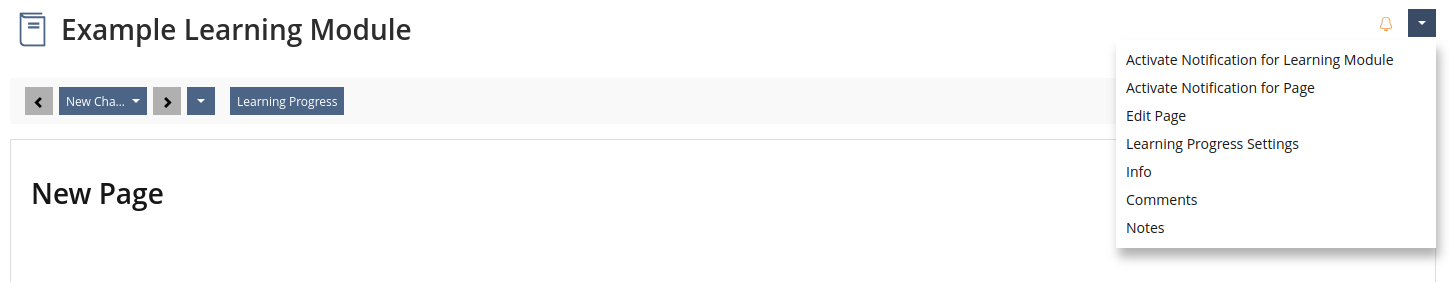
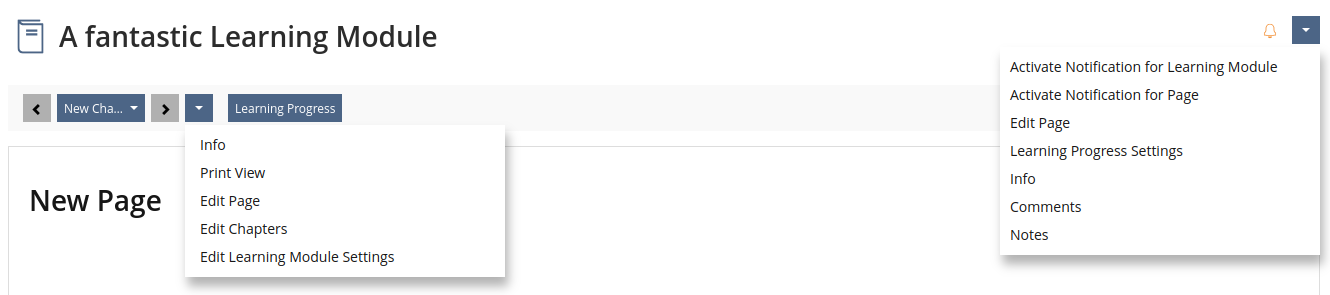
tabs first complete version

diff --git a/ILIAS-development/2025/page-header-tabs-subtabs/page-header-tabs-subtabs-analysis.md b/ILIAS-development/2025/page-header-tabs-subtabs/page-header-tabs-subtabs-analysis.md
@@ -79,6 +79,13 @@ Let's jump ahead and assume we have a test now that is up and running. First res
 
 Each of these branches would have its own structure of Tabs allowing the user to fully focus on the task at hand.
 
+Don Norman describes the main goal of any design in The Design of Everyday things like this: "[M]ake sure that (1) the user can figure out what to do, and (2) the user can tell what is going on."[^Norman-Design-Everyday-Things-design-goals]
+
+This proposal would the User's understanding of the process front and center instead of the system's capabilities.
+
+[^Norman-Design-Everyday-Things-design-goals]: Don Norman. The Design of Everyday Things. 2002 edition. 1988. Basic Books. p. 188 
+
+
 ### Proposal 2
 
 The downside of the first solution is that it is very specific and requires in-depth knowledge of all different type of users, their goals and their workflow.
@@ -89,17 +96,17 @@ Once again this is a snapshot of the current state of this concept and might sti
 
 [ View ] [ Edit & Organize Questions ] [ Test Settings ] [ Assign ] [ Evaluate & Analyze ]
 
-The hierarchy is always based on the words View, Edit (Content), Settings, Assign, Evaluate, because they are associated with different larger tasks that are usually focused on separately. They might have words added to them for clarification and to make them fit better to the exact nature of the object.
+The hierarchy is always based on the words View, Edit (Content), (Object) Settings, Assign, Evaluate, because they are associated with different larger tasks that are usually focused on separately. They might be re-worded per object for clarification and to make them fit better to the exact nature of the object, but the idea of these categories should remain.
 
-We discourage to keep them totally uniform just for the sake of it as the Sub-Tab content will be different for every object anyway.
+We discourage to keep them totally uniform just for the sake of it as the Sub-Tab content within will be different for every object anyway.
 
 The goal is to give a user all tools they need for a current step in the workflow so that they generally do not need to leave a Tab until they move on to another step.
 
 ### Proposal 3
 
-There are also many smaller ideas and concepts we can already work into our current Tabs and Sub-Tabs. These are collected near the end of this paper. These improvements can be considered independently of a larger restructuring effort.
+There are also smaller ideas and tweaks we can already work into our current Tabs and Sub-Tabs. These are collected near the end of this paper. These improvements can be considered independently of a larger restructuring effort.
 
-Now, we would like to explain how we developed this concept and what best practices it is based on.
+Now, we would like to explain how we developed these concepts and what UX/UI best practices it is based on.
 
 ## UI/UX Best Practices
 
@@ -162,15 +169,17 @@ Going into the settings tab of any ILIAS Test & Assessment, a person with permis
 
 The 7 +/- 2 guideline mentioned earlier is broken and screens require the user to read every single tab's name to find the one that is actually relevant.
 
-### No Hierarchy in Tabs of the same Bar
+### Order & Hierarchy in Tabs of the same Bar
 
-No tab label in their corresponding bar is visually different from another (except for the Back tab which shows a glyph). This is problematic, because not all tabs have the same relevance to the user at any given time. A general settings tab is much more frequented than some obscure advanced settings.
+No tab label in their corresponding bar is visually different from another (except for the Back tab which shows a glyph). This uniformity can be an issue, because not all tabs have the same relevance to the user at any given time. A general settings tab is much more frequented than some obscure advanced settings.
 
 There is a light sense of priority given in their order: Tabs to the left are noticed first because of the left to right reading order. The rightmost entry is also likely to get more attention than an entry in the middle. Users tend to look for save buttons and important dropdowns in the right top corner of screens and groupings.
 
+More than relying on order, we might want to explore segmenting and specializing views even further to always keep options both in Tabs and in Forms in manageable numbers.
+
 ### Adaption to User Intent
 
-Additionally, the tab bars do rarely anticipate or support the User Intent. With few exceptions they display all tabs that the current user has access to all the time. This means that even if a user is doing completely different tasks they are forced to see a lot of currently irrelevant elements.
+The tab bars do rarely anticipate or support the User Intent. With few exceptions they display all tabs that the current user has access to all the time. This means that even if a user is doing completely different tasks they are forced to see a lot of currently irrelevant elements.
 
 However, over time or because of the role of the user within an institution, one user's tasks might be vastly different from another's. For example, in the case of the Test & Assessment maybe they want to...
 - set up a simple multiple choice quiz for a quick evaluation at the end of an in person lesson
@@ -180,7 +189,13 @@ However, over time or because of the role of the user within an institution, one
 
 Even if there are specialized screens for some of those activities, we rarely simplify or optimize the page header. The user generally has to set and find their own focus and disregard (in some cases) dozens of elements irrelevant to their current task.
 
-The UI in ILIAS often mirrors the capabilities of the Implementation Model. It's generally structured by what the system can do and what objects and fields it has internally.
+There is a lot to be gained to refine our interfaces more towards specific User Intent in the future:
+
+> User goals, which comprise needs, desires, and expectations, lie at the heart of successful product design. Understanding these goals and translating them into design not only drives user engagement and satisfaction but also ultimately bolsters product success.[^design-bootcamp-user-goals]
+
+[^design-bootcamp-user-goals]: Anaïs Gracia. User Goals. medium.com. July 15, 2023. https://medium.com/design-bootcamp/user-goals-381b8c61f3dc visited August 21, 2025.
+
+The UI in ILIAS often mirrors the capabilities of the Implementation Model. It's generally structured by what the system can do and what objects and fields it has internally. It shows functionality a user can use to achieve their goals, but they often have to figure out for themselves what to focus on.
 
 In some cases though, we do already adapt to User Intents:
 - A user with only the permission to take the test, actually sees a highly minimized interface with fewer to even no tabs.
@@ -224,7 +239,8 @@ After some brainstorming during the workshop that this paper is based on, we lan
 - Manage/create sub-objects: Questions, Export
 - Connect this object with other objects: Participants
 
-We also found...
+We also found in other views...
+- Actions (immediately trigger a change in data)
 - Navigation Back or Up
 
 ### Developer vs User Perspective
@@ -241,9 +257,15 @@ The goal with these distinctions is to meet the user's mental models. To reduce 
 
 ### Measuring the status quo
 
-We had a look at 20 screens. As one screen we define the view a user sees when entering an object. Usually within one screen the Tab bar stays the same and Sub-Tabs change depending on the currently selected Tab.
+We had a look at 20 screens and categorized the options within. As one screen we define the view a user sees when entering an object. Usually within one screen the Tab bar stays the same and Sub-Tabs change depending on the currently selected Tab.
 
 When advancing through Tabs to evaluate Sub-Tabs, the main Tabs have not been counted again. However, entries with the same name and behavior that are repeated on different screens are counted as separate occurrences.
+
+So this is how the tagging data for a screen looks like where all options are seen for the first time in this context and therefore have been marked:
+
+![Color Coding Tabs](imgs/color-coding-Tabs.png)
+
+From this we extracted the total number of occurrences for each of the types:
 
 |                           | Tabs | Sub-Tabs | Toolbar | Top-Right Dropdown |
 |---------------------------|------|----------|---------|--------------------|
@@ -287,6 +309,24 @@ Looking at Toolbar vs Sub-Tabs:
 What do we do with outliers like these?
 * Back navigation in Tabs
 * Toolbar and Action Dropdown leading to a Settings page
+
+#### Outliers
+
+The outliers are the easiest ones come up with the concept for a fix as the patterns that we do have for Tabs already provide a frame of reference to recognize that something isn't right.
+
+Let's look at the header of an ILIAS Learning Module:
+
+![](imgs/so-much-learning-progress.png)
+
+To allow for the user to focus, the Learning Module switches to a reduced view without Tabs. However, Tab pages (Learning Progress Settings, Info, Edit Pages,...) are still linked here tucked away in the dropdown next to the navigation, inside the action dropdown and Learning Progress even gets a prominent button.
+
+While we definitely need alternative kiosk mode views, redistributing Tabs like this is a very risky move. It breaks the pattern that users have learned and come to expect. Furthermore, putting some options in the navigation dropdown and some in the page dropdown is confusing.
+
+Two suggestions to move forward:
+- Show the Tabs as they would usually look
+- Develop a universal way to expand and hide tabs that all ILIAS pages could use
+
+The (currently almost released) Sequence Navigator Component might be of use here. It adds a place to hook in options that are relevant to the sequence or the current single sequence segment, clearly distinguishable from the navigation.
 
 #### Inside Out Settings
 
@@ -513,15 +553,17 @@ To reduce the workload to distill the exact User Intent from every big component
 
 This reduces the effort required from developing custom User Intent Stories, to just deciding which comes closest. With a good guide and helpful examples, this could be a relatively quick process.
 
-Here is a work in progress draft of what general User Intents we might want to use - we might consider alternative wording (in brackets) when it works better with the nature of the object (as we go for quick, intuitive understanding over consistency):
+During the workshop, we tried to find the perfect words that could cover all contexts. But maybe this uniformity is not necessary as the core of the idea is to intuitively understand and connect to the User Intent behind it. Therefore, we might want to consider alternative wording (in brackets) and adapt to what works best with the specific object.
+
+Here is a work in progress draft of what general User Intents we might want to use:
 
 - View (Explore / Learn / Launch)
-- Edit (Create / Manage)
+- Edit (Create / Manage) {Content}
 - Assign (Connect)
 - {Object Name} Settings
 - Evaluate (Analyze)
 
-Maybe these modes would now be the Tabs and then there would be Sub-Tabs below them.
+Maybe these User Intent modes would now be the Tabs and then there would be Sub-Tabs below them.
 
 ##### View
 
@@ -572,28 +614,35 @@ This is the area for Analytics and Reports. It's also the spot for content and s
 - Learning Progress (what was tracked)
 - Manual Scoring
 
-#### Proposal C: Clarifying through Groupings and Locations
+#### Proposal C: Tweaks and Clarifications
 
 The minimum action we would recommend is to clean up worst offenders:
 - "back" or "back up" buttons should move out of the Tab area, maybe near the headline or very prominently into the breadcrumb bar
 - avoid duplicated options across Toolbar, Tabs, Sub-Tabs and Dropdowns
-- reduce number of Tabs and move content into Sub-Tabs where possible
+- reduce number of Tabs and move content into Sub-Tabs where possible (how many times do people use Meta Data and Export?)
+- Actions should never be in the Tab as both Mental Models for Tabs only reveal or go to content. We might need to create a new location to perform actions like unsubscribing (maybe next to the action dropdown?)
+- Toolbar and Dropdown Actions should not lead to a settings page. Settings pages are clearly the main purpose of Tabs.
+- the Toolbar location is deprecated as part of the Removing LUI projects. There is another project to re-locate Toolbar buttons elsewhere (e.g. attach them to the Table component that they control)
 
+## Coding Approach
 
+The proposals outlined in this paper could lead to some very tedious, very individual work on many components.
 
-## 
+During conversations some ideas on how to approach this during development were already discussed. While they still have to be expanded and refined, we wanted to share them in their current shape.
 
-Odd places:
-- Kursmitgliedschaft beenden
-- Info in Dropdown Lernmdoul
+At the moment, the content of tabs is build very explicit. Like a page in a book the content is dropped into a Tab, and it pretty much stays there. Maybe something is grayed out or a Tab or Sub-Tab (dis)appears, but the nature of a Tab is a very static one. Most logic for hiding interface elements is based on permissions.
 
-Towards Semantically-Aware UI Design Tools: Design, Implementation and
-Evaluation of Semantic Grouping Guidelines https://storage.googleapis.com/gweb-research2023-media/pubtools/7295.pdf
+If we approached Tabs and their content less like a location and more like a  systematic structure, this would open up the possibility to branch and distribute functionality
 
-Nested Tab UI https://www.designmonks.co/blog/nested-tab-ui
+Maybe instead of building relatively rigid page layouts, the process could require programmers to hook functionality into slots (e.g. the suggested View, Edit, Assign, Settings, Evaluate pattern).
 
-Visual Hierarchy in UI: https://www.nngroup.com/articles/visual-hierarchy-ux-definition/
+Furthermore, assigning tags based on when a functionality would be needed during the User's workflow like "pre-setup", "setup ongoing", "while published", "just imported" could describe how the interface reacts to the relevancy of options changing during a workflow. These markers should be general enough to apply to all components so maintainers do not have to reinvent the wheel for the logic of their own component.
 
-What are Gestalt Principles? https://www.uxdesigninstitute.com/blog/gestalt-principles-ux-ui-design/
+Basically, instead of just mapping the implementation to the frontend, we would describe it in terms of User Intent and changing needs - like a facade that translates between User Mental Models and Computer Data.
 
-Gestalt Proximity https://www.nngroup.com/articles/gestalt-proximity/
+## Conclusion
+
+* Tabs are still one of the best ways to navigate between a collections of views.
+* A break in a pattern indicates that a system or grouping could be optimized.
+* By following User Intent we can sort and nest Tabs in ways that feel more intuitive and frictionless to our users.
+
